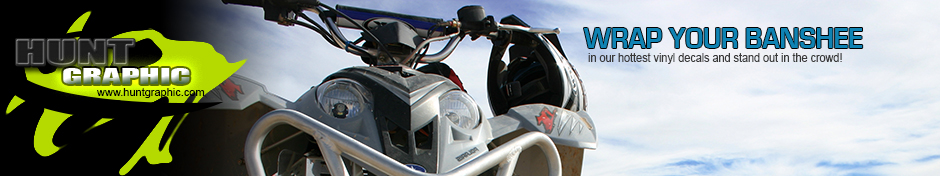
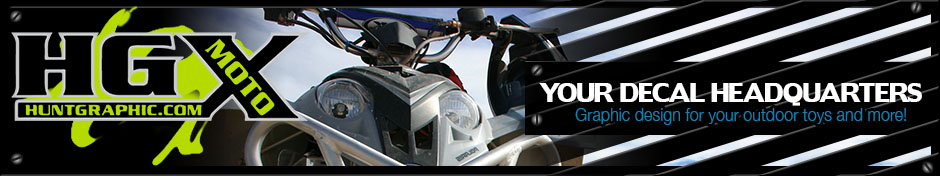
change

diff --git a/css/main.css b/css/main.css
@@ -39,29 +39,80 @@ a:active {
 .feature {
 	font-size:2.2em;
 	color:#0f83b3;
-	padding:10px;
-	width:97.86%;
-	margin-left:3.344334%;
+	padding:12px 12px 12px 12px;
+	width:97.340426%;
+	font-family:Arial, Helvetica, sans-serif;
+	background:#000;
 }
 
-.orange {
-	color:#ff9600;
+.black {
+	color:#000;
+}
+
+.green {
+	color:#b4da00;
 }
 
 .medium {
-	width:65%;
+	width:72.25%;
 	font-size:2.0em;
+	background:#fff
+	float:left;
 }
 
 #global_nav li.no_border {
 	border:none;
 }
 
+
 .shadow {
 	text-shadow: 0px 1px 2px #000;
 	-moz-text-shadow: 0px 1px 2px #000;
 	-webkit-text-shadow: 0px 1px 2px #000;
+}
 
+.round_bottom_right {
+	-webkit-border-radius: 0px 0 20px 0;
+	-moz-border-radius: 0px 0 20px 0;
+	border-radius: 0px 0 20px 0;
+}
+
+.round_top_left {
+	-webkit-border-radius: 10px 0 10px 0;
+	-moz-border-radius: 10px 0 10px 0;
+	border-radius: 10px 0 10px 0;
+}
+
+.half_round {
+	-webkit-border-radius: 0px 0 10px 10pc;
+	-moz-border-radius: 0px 0 10px 10px;
+	border-radius: 0px 0 10px 10px;
+}
+
+.float_Left {
+	float:left;
+}
+
+.float_Right {
+	float:right;
+}
+
+.left_space {
+	padding-left:5.23323%;
+	padding-bottom:5.23323%;
+	padding-top:2.223424%;
+}
+
+.above {
+	position:relative;
+	top:1px;
+	left:10px;
+	z-index:6;
+	float:right;
+}
+
+h1 {
+	overflow:hidden;
 }
 
 /* Color Swatch ============================================================================ 
@@ -75,10 +126,7 @@ neon yellow #dbf36c
 
 
 /* ====================================== Layout */
-html {
-	width:100%;
-	height:100%;
-}
+
 
 body{
 	max-width:960px;
@@ -101,7 +149,7 @@ body{
 
 #header_top {
 	width:97.916667%; /*940px*/
-	background:url('../images/top_bg.jpg') repeat-x top;
+	background:#000;
 	margin-left:1.0638298%; /*10px*/
 	height:50px;
 }
@@ -111,9 +159,7 @@ body{
 	float:right;
 	margin-right:.8638298%; /*10px*/
 	padding:0;
-	overflow:hidden;
-	border:1px solid #dfe2e6;
-	background:#fff;
+	background:url('../images/main_bg.jpg') repeat-x;
 }
 
 footer {
@@ -166,12 +212,28 @@ footer {
 
 .dark input[type=text]{
 	border:1px solid #2a2e31;
-	background-color:#3c3c3c;
-	color:#fff;
+	background-color:#fff;
+	color:#747474;
 	float:right;
+  	-moz-transition-property: width;
+  	-moz-transition-duration: 1s;
+  	-moz-transition-timing-function: ease-out;
+  	-webkit-transition-property: width;
+  	-webkit-transition-duration: 1s;
+  	-webkit-transition-timing-function: ease-out;
+  	-o-transition-property: width;
+  	-o-transition-duration: 1s;
+ 	-o-transition-timing-function: ease-out;
+ 	width:20%;
 }
 
+.dark input:hover {
+	width:55%;
+}
 
+h3 {
+	font-size:2.2em;
+}
 
 /* ====================================== Header Top */
 
@@ -179,43 +241,38 @@ footer {
 
 #side_nav {
 	width:23.4681%; /*230px*/
-	border:1px solid #dfe2e6;
-	background:#fff;
 	margin-right:1.265957%; /*12px*/
-	margin-top:1.0638298%; /*10px*/
-	padding-bottom:3.191%; /*30px/940*/
+	margin-top:1.0534298%; /*10px*/
+	padding-bottom:2.701%; /*30px/940*/
 	float:right;
 }
 
-#side_nav h3 {
-	color:#0e6b92;
-	font-size:1.4em;
-	padding-left:6.3478261%;
-	padding-top:.913913%; /*5px*/
-	width:94%;
-}
 
 ul#brands_nav {
-	list-style-type: none;
-	margin-left:4.3478261%; /*10px*/
-	width:40%; /*92px*/
-	margin-top:1%;
+	margin-left:3.61%; /*10px*/
+	width:88%; /*92px*/
+	padding:0 2.00005% 2.44345% 2.44345%;
+	list-style-type:square;
 
 }
 
 #brands_nav li {
-	margin-top:3.930435%; /*13px;*/
+	margin-top:.930435%; /*13px;*/
+	padding-top:1.44434%;
 }
 
 #brands_nav a {
-	color:#404040;
-	font-size:1.1em;
-	padding:0;
+	color:#626262;
+	font-size:1.25em;
 }
 
 .top_heading {
 	width:100%; /*243px*/
-	background:#ddd;
+	padding-top:5px;
+}
+
+.big {
+	font-size:2.2em;
 }
 
 section {
@@ -236,7 +293,7 @@ section p {
 }
 
 section .top_heading {
-	color:#0e6b92;
+	color:#fff;
 	font-size:1.4em;
 	width:94%;
 	padding-left:6.33433%;
@@ -267,7 +324,7 @@ nav {
 .glare {
 	width:100%; /*230px*/
 	height:50px;
-	background:transparent;
+	background:url('../images/glare.png');
 	height:50px;
 }
 
@@ -298,7 +355,8 @@ ul#global_nav {
 	font-size:1em;
 }
 #global_nav li a:hover {
-	background:#dbf36c;
+	background:url('../images/glare.png') bottom;
+	height:35px;
 	color:#000;
 }
 

diff --git a/index.html b/index.html
@@ -16,18 +16,14 @@
 					<div id="search_area">
 						<div class="dark">
 							<form>
-								<span><input type="text" class="search rounded" placeholder="Search..."></span>
+								<input type="text" class="search rounded">
 							</form>
 						</div>			
 					</div>
 			</div>
 			<div class="clearFix"></div>
 
-			<div id="banner">
-				<a href="index.html"><img src="images/banner.jpg" alt="HuntGraphic Logo"></a>
-			</div>
-
-			<nav>
+				<nav>
 				<div class="glare">				
 					<ul id="global_nav">
 						<li><a href="index.html" id="home_nav">Home</a></li>
@@ -40,15 +36,19 @@
 				</div>
 			</nav>
 
+			<div id="banner">
+				<a href="index.html"><img src="images/banner.jpg" alt="HuntGraphic Logo"></a>
+			</div>
+
 		<div id="main_content">
-			<h1 class="feature shadow">Looking for decals for your bike, quad, car, trailer or equipment? Start by clicking the vehicle/brand you are looking for.</h1>
+			<h1 class="feature shadow">Looking for decals for your bike, quad, car, trailer or equipment? Start by clicking the vehicle/brand you are looking for <img src="images/arrow_down.png" alt="arrow" class="above" /><img src="images/arrow_down.png" alt="arrow" class="above" /></h1>
 				<div id="flex_slider">
 					<img src="images/slider.jpg" alt="Dirtbike decals and more" />
 				</div>
 
 				<div id="side_nav">
-					<h3 class="top_heading">Vehicles/Brands</h3>
-					<ul id="brands_nav">
+					<h3 class="shadow green">Vehicles/Brands</h3>
+					<ul id="brands_nav" class="round_top_left">
 						<li><a href="#">Kawasaki</a></li>
 						<li><a href="#">Suzuki</a></li>
 						<li><a href="#">Yamaha</a></li>
@@ -66,7 +66,7 @@
 					<p>Hunt Graphic has been around since 1998. We started out cutting vinyl for the  Sports Car Club Of America Pro Spec Racers, and since then, have cut vinyl for other series from Busch North,  Nascar Feather-Lite Modified To Fia GT1 &amp; GT2, Grand AM, American Le Mans, Porsche Club and most recently as number of Formula-1 teams. We've expanded to commercial vehicles such as delivery vans, trucks for construction companies, pool companies and more. We've also done simple jobs such as window graphics and point of purchase signs.</p>
 				</div>
 
-				<h1 class="feature shadow orange medium">Need something customized? We can help - navigate to quotes page and fill out a short form so we can assist you</h1>				
+				<img class="float_Left left_space" src="images/custom_work.png" alt="customize a design" /><h1 class="shadow black medium float_Left left_space">Need something customized? We can help - navigate to quotes page and fill out a short form so we can assist you</h1>				
 
 				<section>
 					<h3 class="top_heading">Weekly Specials</h3>
